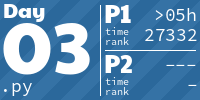
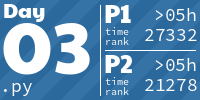
2023 - Day 4

Changed region(s): [[0.72, 0.78, 0.99, 0.93], [0.78, 0.57, 0.99, 0.72]]

diff --git a/ibidem/advent_of_code/y2023/dec04.py b/ibidem/advent_of_code/y2023/dec04.py
@@ -1,0 +1,48 @@
+#!/usr/bin/env python
+from dataclasses import dataclass
+
+from ibidem.advent_of_code.util import get_input_name, gen_list
+
+
+@dataclass
+class Card:
+    count: int
+    winning: set
+    owned: set
+
+    def lotto(self):
+        return self.winning.intersection(self.owned)
+
+
+@gen_list
+def load(fobj):
+    for line in fobj:
+        line = line.strip()
+        prefix, data = line.split(": ", maxsplit=1)
+        winning_part, owned_part = data.split(" | ", maxsplit=1)
+        winning = set(int(x) for x in winning_part.split())
+        owned = set(int(x) for x in owned_part.split())
+        yield Card(1, winning, owned)
+
+
+def part1(input):
+    result = 0
+    for card in input:
+        result += int(pow(2, len(card.lotto())-1))
+    return result
+
+
+def part2(input):
+    for i, card in enumerate(input):
+        for j in range(len(card.lotto())):
+            input[i+1+j].count += card.count
+    return sum(card.count for card in input)
+
+
+if __name__ == "__main__":
+    with open(get_input_name(4, 2023)) as fobj:
+        p1_result = part1(load(fobj))
+        print(f"Part 1: {p1_result}")
+    with open(get_input_name(4, 2023)) as fobj:
+        p2_result = part2(load(fobj))
+        print(f"Part 2: {p2_result}")

diff --git a/ibidem/advent_of_code/y2023/test/test_dec04.py b/ibidem/advent_of_code/y2023/test/test_dec04.py
@@ -1,0 +1,42 @@
+import io
+import pytest
+
+from ibidem.advent_of_code.y2023.dec04 import load, part1, part2
+
+
+TEST_INPUT = io.StringIO("""\
+Card 1: 41 48 83 86 17 | 83 86  6 31 17  9 48 53
+Card 2: 13 32 20 16 61 | 61 30 68 82 17 32 24 19
+Card 3:  1 21 53 59 44 | 69 82 63 72 16 21 14  1
+Card 4: 41 92 73 84 69 | 59 84 76 51 58  5 54 83
+Card 5: 87 83 26 28 32 | 88 30 70 12 93 22 82 36
+Card 6: 31 18 13 56 72 | 74 77 10 23 35 67 36 11
+""")
+
+PART1_RESULT = 13
+PART2_RESULT = 30
+
+
+class TestDec04():
+    @pytest.fixture
+    def input(self):
+        TEST_INPUT.seek(0)
+        return TEST_INPUT
+
+    @pytest.fixture
+    def loaded(self, input):
+        return load(input)
+
+    def test_load(self, loaded):
+        for card in loaded:
+            assert len(card.winning) == 5
+            assert len(card.owned) == 8
+            assert card.count == 1
+
+    def test_part1(self, loaded):
+        result = part1(loaded)
+        assert result == PART1_RESULT
+        
+    def test_part2(self, loaded):
+        result = part2(loaded)
+        assert result == PART2_RESULT

diff --git a/README.rst b/README.rst
@@ -35,7 +35,7 @@ To add a pre-commit hook that generates tiles, copy `pre-commit` to `.git/hooks/
 
 .. AOC TILES BEGIN - 2023
 
-2023 - 6 ⭐
+2023 - 8 ⭐
 ............
 
 .. image:: Media/2023/01.png
@@ -51,6 +51,11 @@ To add a pre-commit hook that generates tiles, copy `pre-commit` to `.git/hooks/
 .. image:: Media/2023/03.png
    :width: 161px
    :target: ibidem/advent_of_code/y2023/dec03.py
+
+
+.. image:: Media/2023/04.png
+   :width: 161px
+   :target: ibidem/advent_of_code/y2023/dec04.py
 
 .. AOC TILES END - 2023
 
